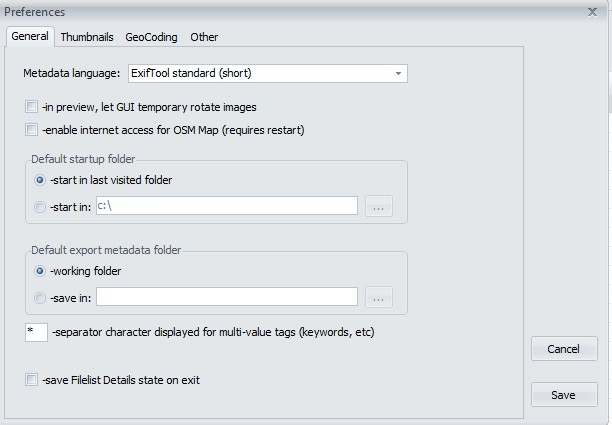
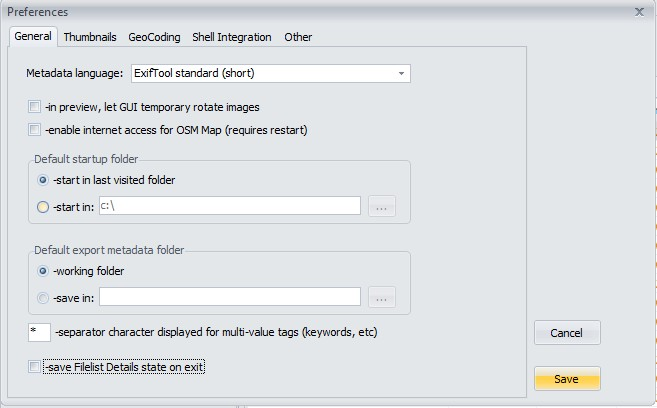
Fix issues for V6.2.9 #268
Docs

Changed region(s): [[0.0, 0.0, 1.0, 1.0], [0.8382, 0.7647, 0.9624, 0.8529], [0.6209, 0.5, 0.652, 0.5294]]

diff --git a/Docs/ExifToolGUI_V6.md b/Docs/ExifToolGUI_V6.md
@@ -62,7 +62,10 @@ Basic idea behind GUI is, to keep it <u>simple!</u> Thus, only those options are
 <li>Option added to show folders in the FileList panel.</li>
 <li>Option added to show a Breadcrumb (Address bar) in the FileList panel.</li>
 <li>Possibility to add Custom options to Exiftool.</li>
-<li>Experimental support for <a href="Readme%204K%20monitor.txt"><b>4K monitors.</b></a></li>
+<li>Support for <a href="Readme%204K%20monitor.txt"><b>4K monitors.</b></a></li>
+<li>Option added to show hidden files and folders. <b>Admins only</b></li>
+<li>Enhanced integration. Add to Context menu in Windows explorer, Single instance App and minimize to Tray</b></li>
+<li>Camera settings, Location info and About photo in Filelist detail supported for more File types</b></li>
 </ul>
 <a href="changelog.txt"><b>See changelog.txt for a complete list of issues.</b></a>
 
@@ -241,6 +244,33 @@ Here you can setup the GeoCoding parameters. Typically you only have to check <b
 For an in-depth explanation see <a href="Readme GeoCoding.txt"><b>Readme GeoCoding.txt</b></a>
 <br><br>
 
+<img src="ExifToolGUI_V6_files/preferences_shell.jpg"><br>
+<br><br>
+<b><u>Shell Integration</u></b> settings tab<br>
+<br>
+<b>-application When minimized move to tray</b><br>
+Put an icon for GUI in the Windows System Tray, also known as the notification area, when GUI is minimized.<br>
+You will likely have to make the icon visible in <b>Windows Taskbar Settings</b>.<br>
+By clicking on the icon on the taskbar you can easily start GUI. A Right Click on the icon will show a menu with Version info, and the option to reset the window sizes.<br>
+<br>
+<img src="ExifToolGUI_V6_files/trayicon.jpg"><br>
+<br>
+<b>-application Single instance</b><br>
+Allow only one running instance of GUI. If you try to start a second instance of GUI, it will try to make the running instance visible.<br>
+Use this option when you have registered GUI in the Contextmenu, or you will get a new instance of GUI everytime you use the context menu.<br>
+<br>
+<b>Register ExifToolGui in Contextmenu (Requires elevation)</b><br>
+The buttons Add and Remove are only enable when you have started GUI as Admin.<br>
+If you have added GUI to the contextmenu you can start it by Right clicking on a folder.<br>
+<img src="ExifToolGUI_V6_files/contextmenu.jpg"><br>
+<br><br>
+<u>Notes:</u>
+<ul>
+<li>For Windows 11 you can find the context menu item under 'Show more options', or use SHIFT/Right click. If you search the net you can also find 'registry tweaks' that show the contextmenu directly.<br></li>
+<li>When you decide to add GUI to the Contextmenu data is written to the registry. If you have concerns with that, because GUI is not <b>Portable</b>, dont use it.<br> </li>
+</ul>
+<br><br>
+
 <img src="ExifToolGUI_V6_files/preferences_other.jpg"><br>
 <br><br>
 <b><u>Other</u></b> settings tab<br>
@@ -258,8 +288,19 @@ double-clicking on one of the tabs Exif, Xmp, Iptc, Maker, All will add that tag
 If you need to override the location of exiftool.exe you can do that here.<br><br>
 <b>Filelist: Show Folders in Filelist</b><br>
 The default setting is to only show files in the Filelist panel. If you enable this option, also folders (directories) will be shown, allowing easier navigation.<br><br>
+<b>Filelist: Show Hidden Folders and Files in Filelist (Admin required)</b><br>
+Will also show hidden Folders and Files in the Folder Treeview and the Filelist panels. You need to be Admin to use this, and not everything you see may be readable/writeable.<br><br>
 <b>Filelist: Show Breadcrumb (Address bar) in Filelist</b><br>
 Enable a BreadCrumb bar on top of the filelist. Allows for easier navigating.<br><br>
+<b>Filelist: Show Hidden Folders and Files in Filelist (Admin required)</b><br>
+Will also show hidden Folders and Files in the Folder Treeview and the Filelist panels. You need to be Admin to use this, and not everything you see may be readable/writeable.<br><br>
+<b>Filelist: Enable 'Camera Settings', 'Location info and 'About photo' for all file types. (Slower)</b><br>
+If you have set the <b>Details</b> of the filelist panel to any of the above options, GUI will show that info only for known filetypes.<br>
+If a file is not supported, or it does not contain the data, GUI will show 'File type unsupported'.<br>
+Generally speaking this works only for filetypes that have <b>IFD0, ExifIFD or XMP</b> groups. <br>
+Examples that work: Tiff based raw (PEF, NEF, CRW, CR2, DNG), Jpeg, and recently I added FujiFilm (RAF) and CR3.<br>
+Examples that do not work: PDF, MP4<br> 
+Enabling this option will result in calling Exiftool to get the data. While this works, it will slow-down getting the filedetails considerably. It is thus not enabled by default.<br><br>
 <b>Hint pause timeout in Millisecs</b><br>
 Hovering over the metadata panel will display the complete metadata value as a hint. This was added because long values are often not completely visible.<br>
 Setting this value to 0 (zero) will effectively disable the hints.
@@ -840,6 +881,16 @@ If you've changed your mind completely (don't wish to apply any changes), then j
 <br>
 Some tag values may require a bit longer text to be entered (just <u>a bit</u> longer, please). To do that more comfortable, click on <font class="blue">Large</font> button and you'll get some more space:<br>
 <img src="ExifToolGUI_V6_files/metadataworkspacelong.jpg"><br>
+<br>
+
+<b>Keyboard shortcuts</b><br>
+These keyboard shortcuts are recognized:
+<li>Enter, Starts editing the field, confirms editing the value.</li>
+<li>Esc, Abandons editing the value.</li>
+<li>CTRL + C, Copies the value of the current row to the Clipboard.</li>
+<li>CTRL + S, Saves the pending changes. (Same as clicking Save)</li>
+<li>CTRL + Home, CTRL + End, Moves to first, last line of the metadata.</li>
+<li>CTRL + Up, CTRL + Down, Loads the previous, next file. The changed data is not saved.</li>
 <br>
 
 <b>Editing tags which names ends with ± character</b><br>
